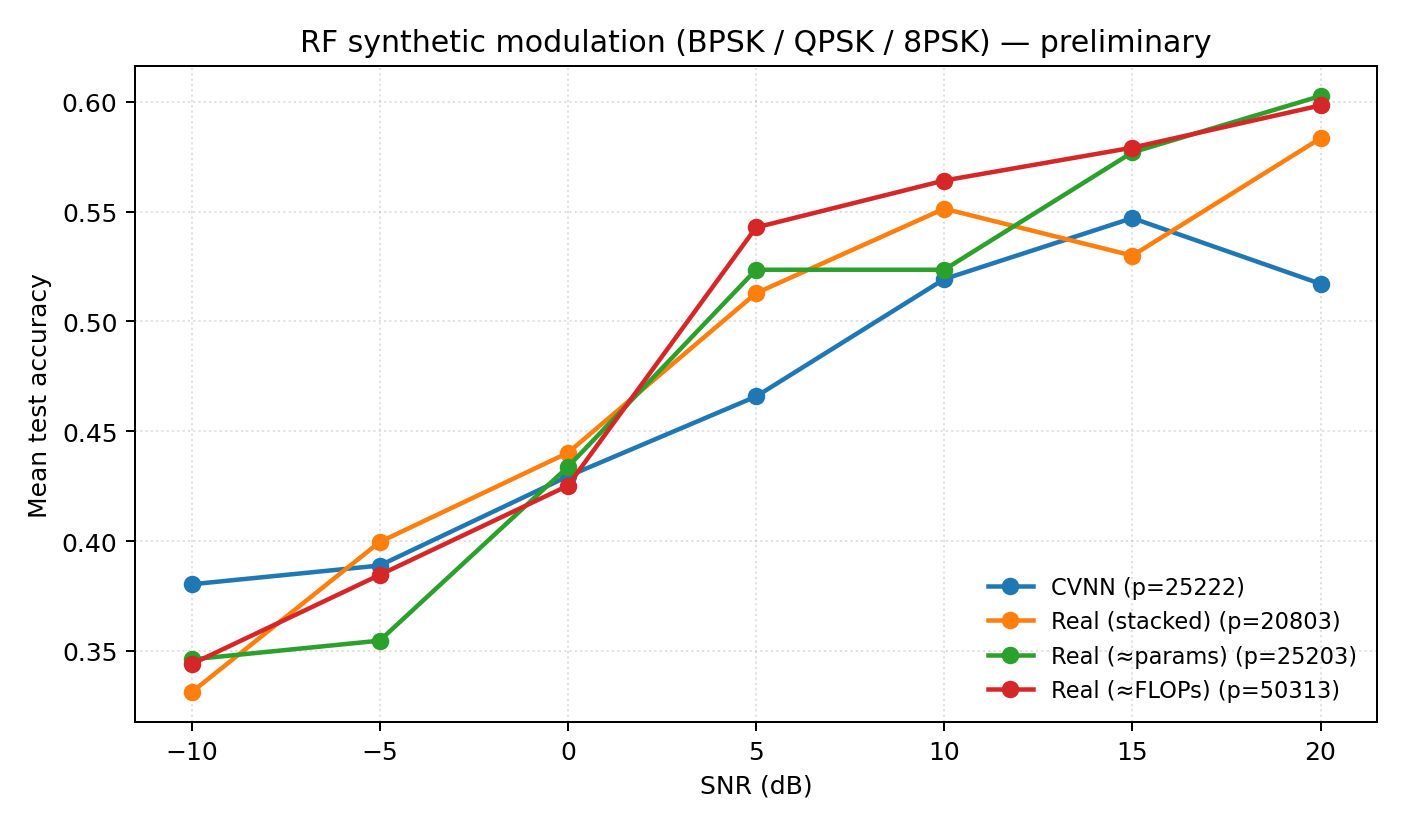
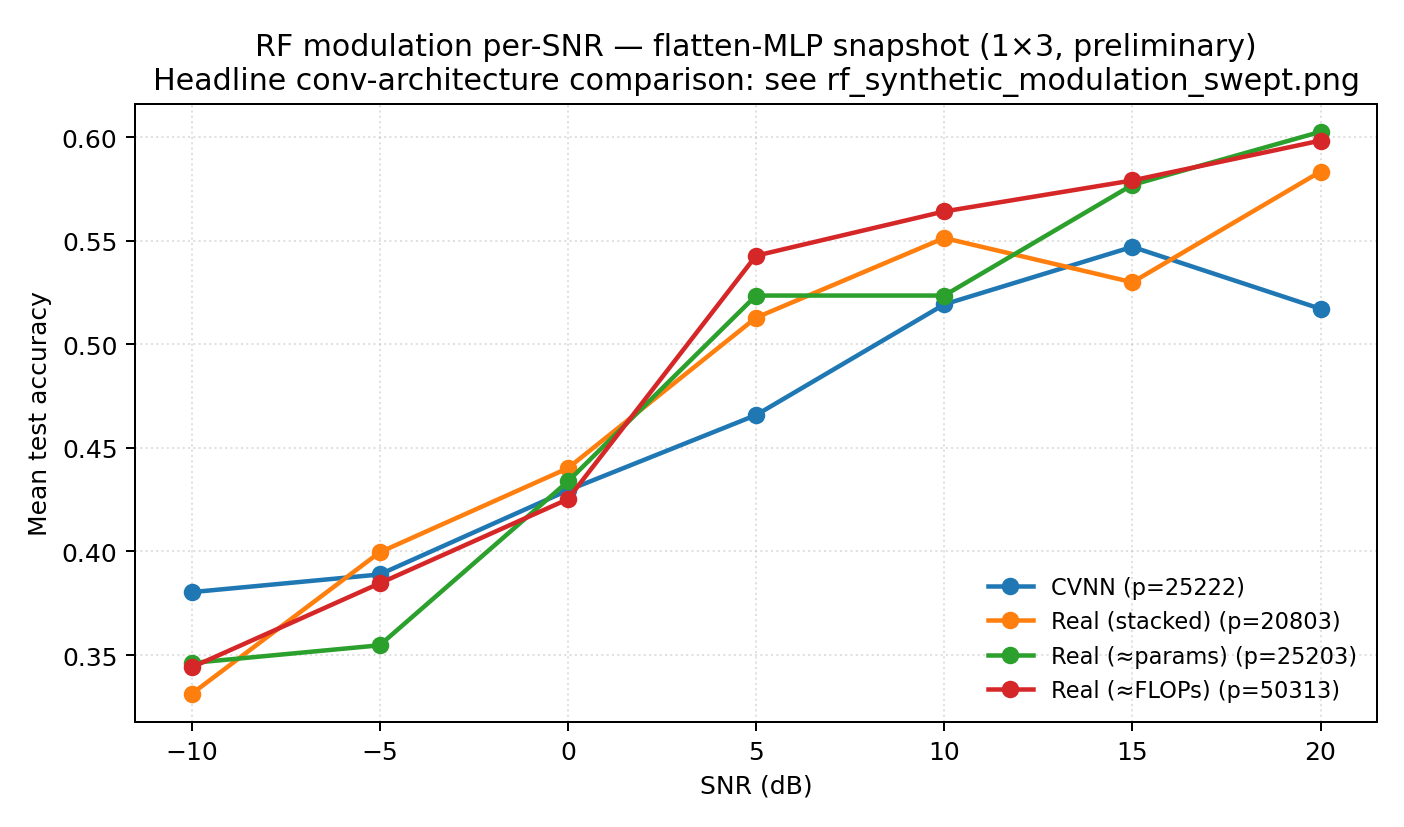
figures: add swept-result variants for phase + RF
Three new figures driven from the sweep summaries:

- synthetic_phase_classification_swept.png: bar chart of selected configs
  per family with 95% CI from std/√n. Reads
  results/synthetic_phase_classification_sweep/summary.json.
- rf_synthetic_modulation_swept.png: same shape for the headline RF
  finding. Reads .../rf_synthetic_modulation_sweep/summary.json. Title
  calls out the win at the smallest parameter count.
- rf_sweep_pareto.png: scatter of all (params, test_acc) trial points
  across families with selected trial as ★. Visually anchors the "complex
  sits upper-left" reading of the result.

Also retitled rf_accuracy_vs_snr.png to mark it as the preliminary
flatten-MLP snapshot and point readers to the headline swept conv figure.

diff --git a/scripts/generate_paper_figures.py b/scripts/generate_paper_figures.py
@@ -216,7 +216,10 @@ def fig_rf_accuracy_vs_snr() -> Path:
         )
     ax.set_xlabel("SNR (dB)")
     ax.set_ylabel("Mean test accuracy")
-    ax.set_title("RF synthetic modulation (BPSK / QPSK / 8PSK) — preliminary")
+    ax.set_title(
+        "RF modulation per-SNR — flatten-MLP snapshot (1×3, preliminary)\n"
+        "Headline conv-architecture comparison: see rf_synthetic_modulation_swept.png"
+    )
     ax.grid(True, linestyle=":", alpha=0.4)
     ax.legend(frameon=False, loc="lower right", fontsize=9)
     fig.tight_layout()
@@ -226,12 +229,128 @@ def fig_rf_accuracy_vs_snr() -> Path:
     return out
 
 
+def _swept_bars(
+    summary_path: Path,
+    *,
+    title: str,
+    out_name: str,
+) -> Path:
+    """Bar chart of swept-selection test accuracies with 95% CI from std / √n."""
+
+    summary = load_json(summary_path)
+    selections = {s["family"]: s for s in summary["selections"]}
+    n_seeds = len(summary["config"]["seeds"])
+    families = [f for f in FAMILY_ORDER if f in selections]
+    means = [selections[f]["selected_test_accuracy_mean"] for f in families]
+    stds = [selections[f]["selected_test_accuracy_std"] for f in families]
+    half_ci = [1.96 * s / np.sqrt(n_seeds) for s in stds]
+    lo = [m - h for m, h in zip(means, half_ci, strict=True)]
+    hi = [m + h for m, h in zip(means, half_ci, strict=True)]
+    params = [
+        selections[f]["selected_extra"]["parameter_count_mean"] for f in families
+    ]
+
+    fig, ax = plt.subplots(figsize=(8.0, 4.8))
+    _family_bar(ax, families, means, lo, hi, params)
+    ymin = min(lo) - 0.01
+    ymax = max(hi) + 0.025
+    ax.set_ylim(ymin, ymax)
+    ax.set_title(title)
+    ax.grid(True, axis="y", linestyle=":", alpha=0.4)
+    fig.tight_layout()
+    out = FIG_DIR / out_name
+    fig.savefig(out, dpi=180)
+    plt.close(fig)
+    return out
+
+
+def fig_synthetic_phase_swept() -> Path:
+    return _swept_bars(
+        RESULTS / "synthetic_phase_classification_sweep" / "summary.json",
+        title=(
+            "Synthetic phase classification — selected configs\n"
+            "16 trials × 3 seeds  ·  error bars = 95% CI (std / √n)"
+        ),
+        out_name="synthetic_phase_classification_swept.png",
+    )
+
+
+def fig_rf_swept() -> Path:
+    summary_path = RESULTS / "rf_synthetic_modulation_sweep" / "summary.json"
+    summary = load_json(summary_path)
+    n_seeds = len(summary["config"]["seeds"])
+    return _swept_bars(
+        summary_path,
+        title=(
+            f"RF synthetic modulation (conv) — selected configs\n"
+            f"16 trials × {n_seeds} seeds  ·  "
+            "error bars = 95% CI (std / √n)\n"
+            "Complex wins at the smallest parameter count"
+        ),
+        out_name="rf_synthetic_modulation_swept.png",
+    )
+
+
+def fig_rf_sweep_pareto() -> Path:
+    sweep = load_json(RESULTS / "rf_synthetic_modulation_sweep" / "trials.json")
+    selections = {s["family"]: s for s in sweep["selections"]}
+    trials = sweep["trials"]
+    n_seeds = len(sweep["config"]["seeds"])
+
+    fig, ax = plt.subplots(figsize=(8.5, 5.0))
+    for fam in FAMILY_ORDER:
+        fam_trials = [t for t in trials if t["family"] == fam]
+        params = [t["extra"]["parameter_count_mean"] for t in fam_trials]
+        accs = [t["test_accuracy_mean"] for t in fam_trials]
+        ax.scatter(
+            params,
+            accs,
+            color=FAMILY_COLOR[fam],
+            alpha=0.55,
+            s=42,
+            label=FAMILY_LABEL[fam],
+            edgecolor="white",
+            linewidth=0.6,
+        )
+        sel = selections.get(fam)
+        if sel is not None:
+            ax.scatter(
+                [sel["selected_extra"]["parameter_count_mean"]],
+                [sel["selected_test_accuracy_mean"]],
+                color=FAMILY_COLOR[fam],
+                marker="*",
+                s=240,
+                edgecolor="black",
+                linewidth=0.8,
+                zorder=5,
+            )
+
+    ax.set_xscale("log")
+    ax.set_xlabel("Parameter count (log scale)")
+    ax.set_ylabel(f"Test accuracy (mean over {n_seeds} seeds)")
+    ax.set_title(
+        "Sweep on RF synthetic modulation — 16 trials × 4 families\n"
+        "★ = trial chosen by validation accuracy\n"
+        "Complex sits upper-left: higher accuracy, fewer parameters"
+    )
+    ax.grid(True, which="both", linestyle=":", alpha=0.4)
+    ax.legend(frameon=False, loc="lower right")
+    fig.tight_layout()
+    out = FIG_DIR / "rf_sweep_pareto.png"
+    fig.savefig(out, dpi=180)
+    plt.close(fig)
+    return out
+
+
 def main() -> None:
     figures = [
         fig_activation_tradeoff(),
         fig_synthetic_phase(),
+        fig_synthetic_phase_swept(),
         fig_sweep_pareto(),
         fig_rf_accuracy_vs_snr(),
+        fig_rf_swept(),
+        fig_rf_sweep_pareto(),
     ]
     for path in figures:
         print(f"wrote {path.relative_to(ROOT)}")
